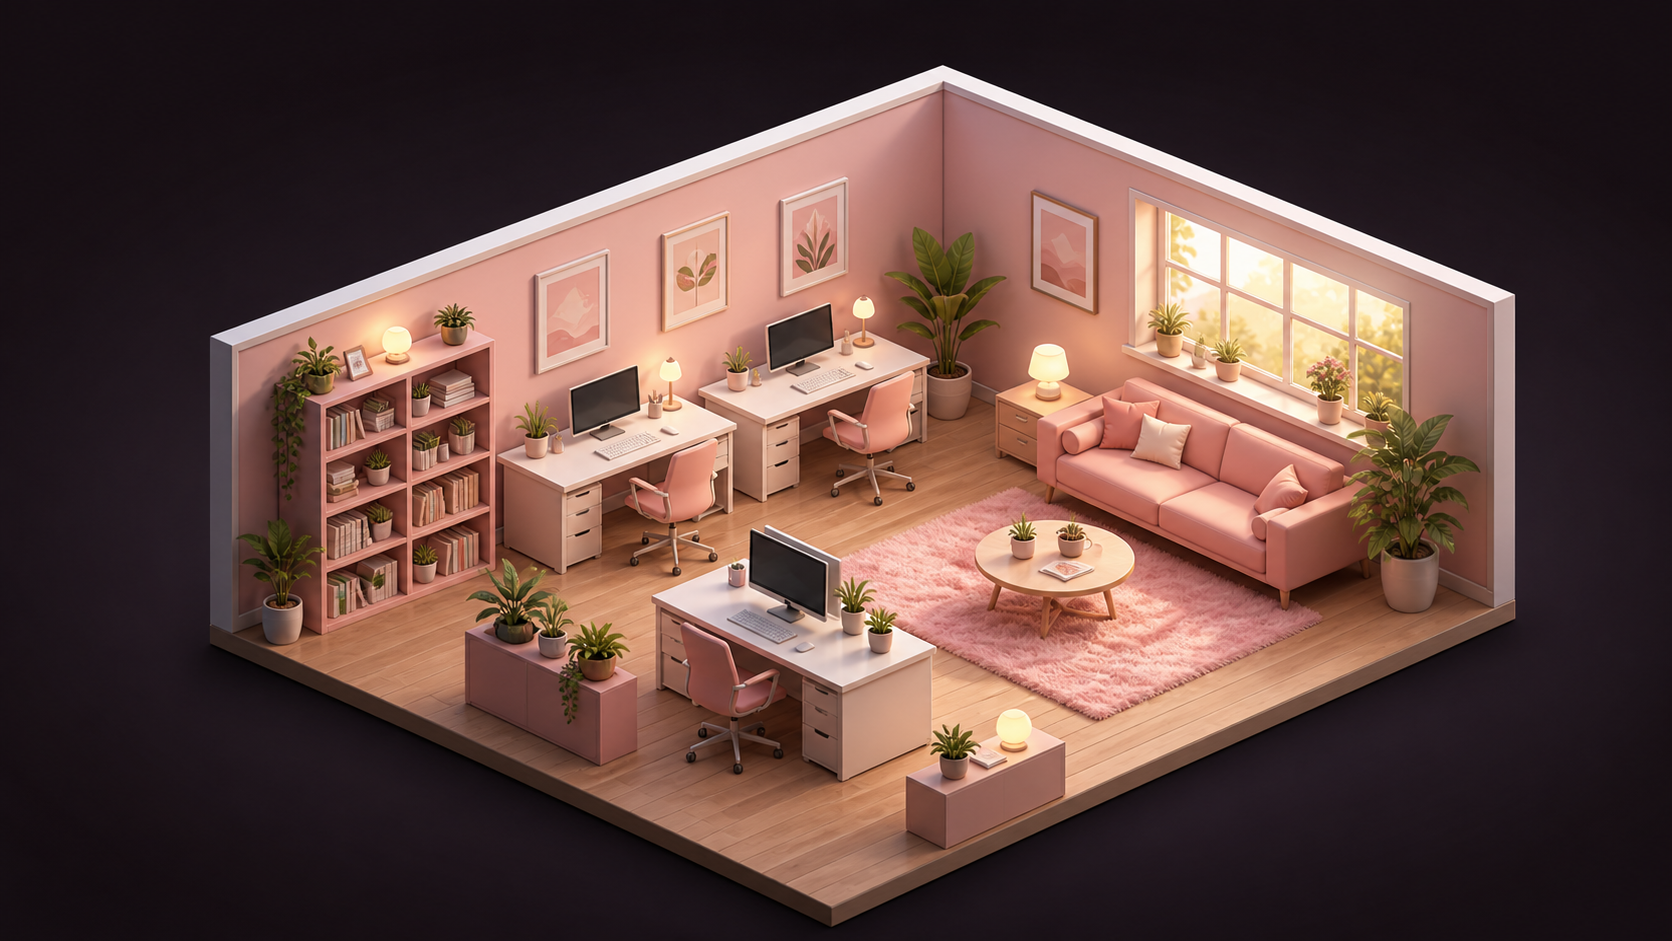
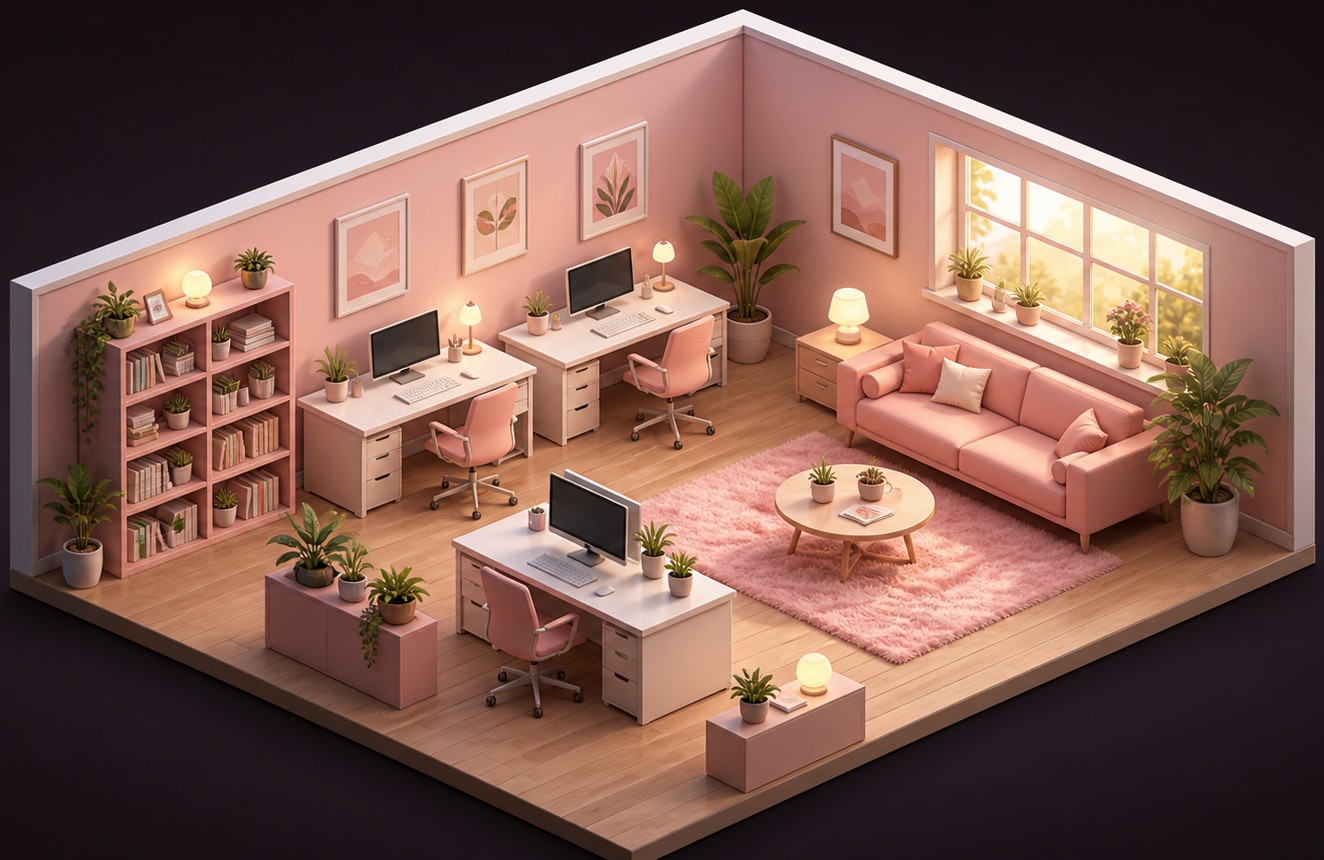
오피스 이미지 크롭으로 좌석 맵 확대 · 좌석 좌표 재배치

diff --git a/app.js b/app.js
@@ -786,22 +786,22 @@
   /* ---------- 렌더: 오피스 좌석 맵 ---------- */
   /* 좌석 좌표는 office 이미지(1672×941) 안의 책상·소파·러그 위치를 %로 적은 것 */
   var SEATS = {
-    yeeun:    { x: 56, y: 40 },
-    pinky:    { x: 56, y: 56 },
-    gpt:      { x: 28, y: 38 },
-    claude:   { x: 28, y: 54 },
-    gemini:   { x: 42, y: 32 },
-    cue:      { x: 42, y: 48 },
-    keyring:  { x: 70, y: 44 },
-    vooy:     { x: 84, y: 46 },
-    manus:    { x: 84, y: 62 },
-    muse:     { x: 14, y: 44 },
-    hark:     { x: 28, y: 70 },
-    instinct: { x: 42, y: 70 },
-    groq:     { x: 84, y: 28 }
+    yeeun:    { x: 60, y: 59 },
+    pinky:    { x: 73, y: 59 },
+    gpt:      { x: 31, y: 38 },
+    claude:   { x: 36, y: 52 },
+    gemini:   { x: 48, y: 33 },
+    cue:      { x: 51, y: 46 },
+    keyring:  { x: 66, y: 46 },
+    vooy:     { x: 79, y: 48 },
+    manus:    { x: 90, y: 63 },
+    muse:     { x: 9,  y: 47 },
+    hark:     { x: 33, y: 74 },
+    instinct: { x: 45, y: 83 },
+    groq:     { x: 80, y: 27 }
   };
   var SPARE_SEATS = [
-    { x: 14, y: 62 }, { x: 70, y: 62 }, { x: 14, y: 30 }, { x: 70, y: 28 }, { x: 56, y: 72 }, { x: 42, y: 58 }
+    { x: 16, y: 62 }, { x: 59, y: 74 }, { x: 90, y: 40 }, { x: 7, y: 30 }, { x: 24, y: 56 }, { x: 86, y: 84 }
   ];
   var RINGS = ['#ff7a9c', '#ffb26b', '#7ee0c0', '#8fb8ff', '#c79bff', '#ffd166', '#6ee7d7', '#ff9bd2', '#9be15d', '#f2a2ff', '#7dd3fc', '#ffc0a6', '#b0f0c0'];
 

diff --git a/styles.css b/styles.css
@@ -202,7 +202,7 @@ body {
 /* 이미지 + 좌석 배지 */
 .seat-map {
   position: relative;
-  aspect-ratio: 1672 / 941;
+  aspect-ratio: 1324 / 860;
   border-radius: 16px;
   overflow: hidden;
   background: #1a121e;
@@ -249,9 +249,9 @@ body {
 
 .seat-ava {
   position: relative;
-  width: 22px; height: 22px;
+  width: 24px; height: 24px;
   display: grid; place-items: center;
-  font-size: 11px;
+  font-size: 12px;
   line-height: 1;
   border-radius: 50%;
   background: radial-gradient(circle at 35% 25%, #2b2033, #171020);
@@ -260,7 +260,7 @@ body {
 }
 
 .seat-name {
-  font-size: 8px;
+  font-size: 8.5px;
   font-weight: 800;
   line-height: 1.15;
   letter-spacing: -0.3px;

diff --git a/index.html b/index.html
@@ -53,7 +53,7 @@
       <div class="banner seat-map">
         <picture>
           <source srcset="./office.webp" type="image/webp" />
-          <img src="./office.png" width="1672" height="941" fetchpriority="high" alt="핑크빛 3D 아이소메트릭 오피스 — 책상 세 개, 소파, 러그, 책장, 화분이 있는 아늑한 스튜디오" />
+          <img src="./office.png" width="1324" height="860" fetchpriority="high" alt="핑크빛 3D 아이소메트릭 오피스 — 책상 세 개, 소파, 러그, 책장, 화분이 있는 아늑한 스튜디오" />
         </picture>
         <div id="seatLayer" class="seat-layer"></div>
       </div>
